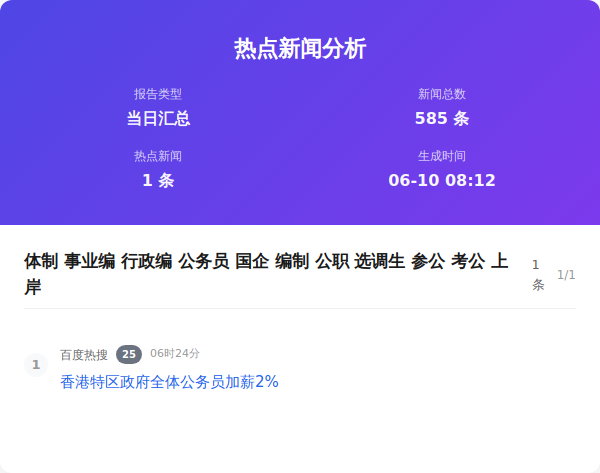
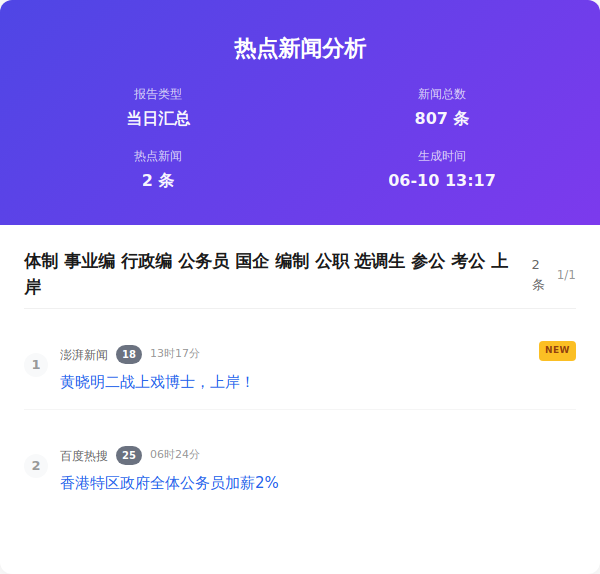
Auto update by GitHub Actions at Wed Jun 10 13:17:48 CST 2026

diff --git a/output/2026年06月10日/html/当日汇总.html b/output/2026年06月10日/html/当日汇总.html
@@ -357,15 +357,15 @@
                     </div>
                     <div class="info-item">
                         <span class="info-label">新闻总数</span>
-                        <span class="info-value">585 条</span>
+                        <span class="info-value">807 条</span>
                     </div>
                     <div class="info-item">
                         <span class="info-label">热点新闻</span>
-                        <span class="info-value">1 条</span>
+                        <span class="info-value">2 条</span>
                     </div>
                     <div class="info-item">
                         <span class="info-label">生成时间</span>
-                        <span class="info-value">06-10 08:12</span>
+                        <span class="info-value">06-10 13:17</span>
                     </div>
                 </div>
             </div>
@@ -375,12 +375,22 @@
                     <div class="word-header">
                         <div class="word-info">
                             <div class="word-name">体制 事业编 行政编 公务员 国企 编制 公职 选调生 参公 考公 上岸</div>
-                            <div class="word-count ">1 条</div>
+                            <div class="word-count ">2 条</div>
                         </div>
                         <div class="word-index">1/1</div>
                     </div>
-                    <div class="news-item ">
+                    <div class="news-item new">
                         <div class="news-number">1</div>
+                        <div class="news-content">
+                            <div class="news-header">
+                                <span class="source-name">澎湃新闻</span><span class="rank-num ">18</span><span class="time-info">13时17分</span>
+                            </div>
+                            <div class="news-title"><a href="https://m.thepaper.cn/newsDetail_forward_33341922" target="_blank" class="news-link">黄晓明二战上戏博士，上岸！</a>
+                            </div>
+                        </div>
+                    </div>
+                    <div class="news-item ">
+                        <div class="news-number">2</div>
                         <div class="news-content">
                             <div class="news-header">
                                 <span class="source-name">百度热搜</span><span class="rank-num ">25</span><span class="time-info">06时24分</span>